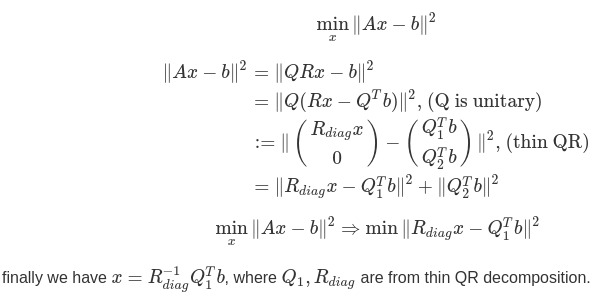
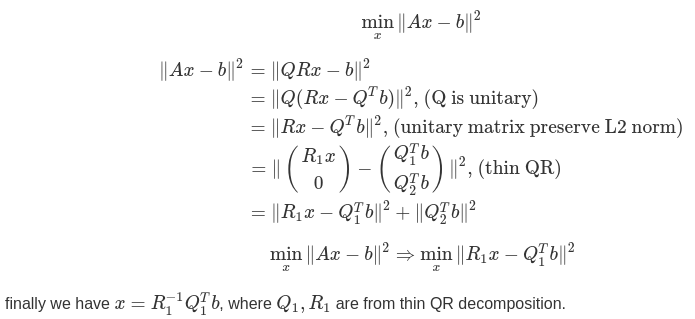
* minor fixes

diff --git a/README.md b/README.md
@@ -17,34 +17,15 @@ $$
 \begin{split}
 \|Ax-b\|^2 &= \|QRx-b\|^2\\
            &= \|Q(Rx-Q^Tb)\|^2 \text{, (Q is unitary)}\\
-           &:= \| \begin{pmatrix}R_{diag}x\\0\end{pmatrix} - \begin{pmatrix}Q_1^Tb\\Q_2^Tb\end{pmatrix} \|^2 \text{, (thin QR)} \\
-           &= \|R_{diag}x-Q_1^Tb\|^2 + \|Q_2^Tb\|^2\\
+           &= \|Rx-Q^Tb\|^2 \text{, (unitary matrix preserve L2 norm)}\\
+           &= \| \begin{pmatrix}R_1x\\0\end{pmatrix} - \begin{pmatrix}Q_1^Tb\\Q_2^Tb\end{pmatrix} \|^2 \text{, (thin QR)} \\
+           &= \|R_1x-Q_1^Tb\|^2 + \|Q_2^Tb\|^2\\
 \end{split}\end{equation}
 $$
 
-$$\min_{x}\|Ax-b\|^2 \Rightarrow \min \|R_{diag}x-Q_1^Tb\|^2$$
+$$\min_{x}\|Ax-b\|^2 \Rightarrow \min_x \|R_1x-Q_1^Tb\|^2$$
 
-finally we have $ x = R_{diag}^{-1}Q_1^Tb$, where $Q_1,R_{diag}$ are from thin QR decomposition. -->
-
-
-<!-- 
-$$
-\begin{equation}
-\begin{split}
-(Ax-b)^T(Ax-b) &=x^T A^TAx - x^TA^Tb -b^T Ax + b^Tb\\
-\frac{d(Ax-b)^T(Ax-b)}{dx} &=2A^TAx-2A^Tb =0\\
-\end{split}\end{equation}
-$$
-
-Here QR decomposition was used to avoid calculate $A^TA$, which squares condition number.
-$$
-\begin{equation}
-\begin{split}
-    x  &= (A^TA)^{-1}A^Tb\\
-       &= ((QR)^TQR)^{-1}A^Tb\\
-       &= (R^TR)^{-1}A^Tb 
-\end{split}\end{equation}
-$$ -->
+finally we have $ x = R_1^{-1}Q_1^Tb$, where $Q_1,R_1$ are from thin QR decomposition.  -->
 
 ![lls_qr](./imgs/lls_qr.png)
 ![thin_qr](./imgs/thin_qr.png)
@@ -80,9 +61,10 @@ $$
 $$
 \begin{equation}
 \begin{split}
-    x  &= (A^TA+\lambda I)^{-1}A^Tb\\
-       &= ((QR)^TQR+\lambda I)^{-1}A^Tb\\
-       &= (R^TR+\lambda I)^{-1}A^Tb 
+(A^TA+\lambda I)x  &= A^Tb\\
+(R^TQ^TQR+\lambda I)x&= R^TQ^Tb\\
+(R^TR+\lambda I)x &= R^TQ^Tb\\
+x &= (R^TR+\lambda I)^{-1}A^Tb 
 \end{split}\end{equation}
 $$
 
